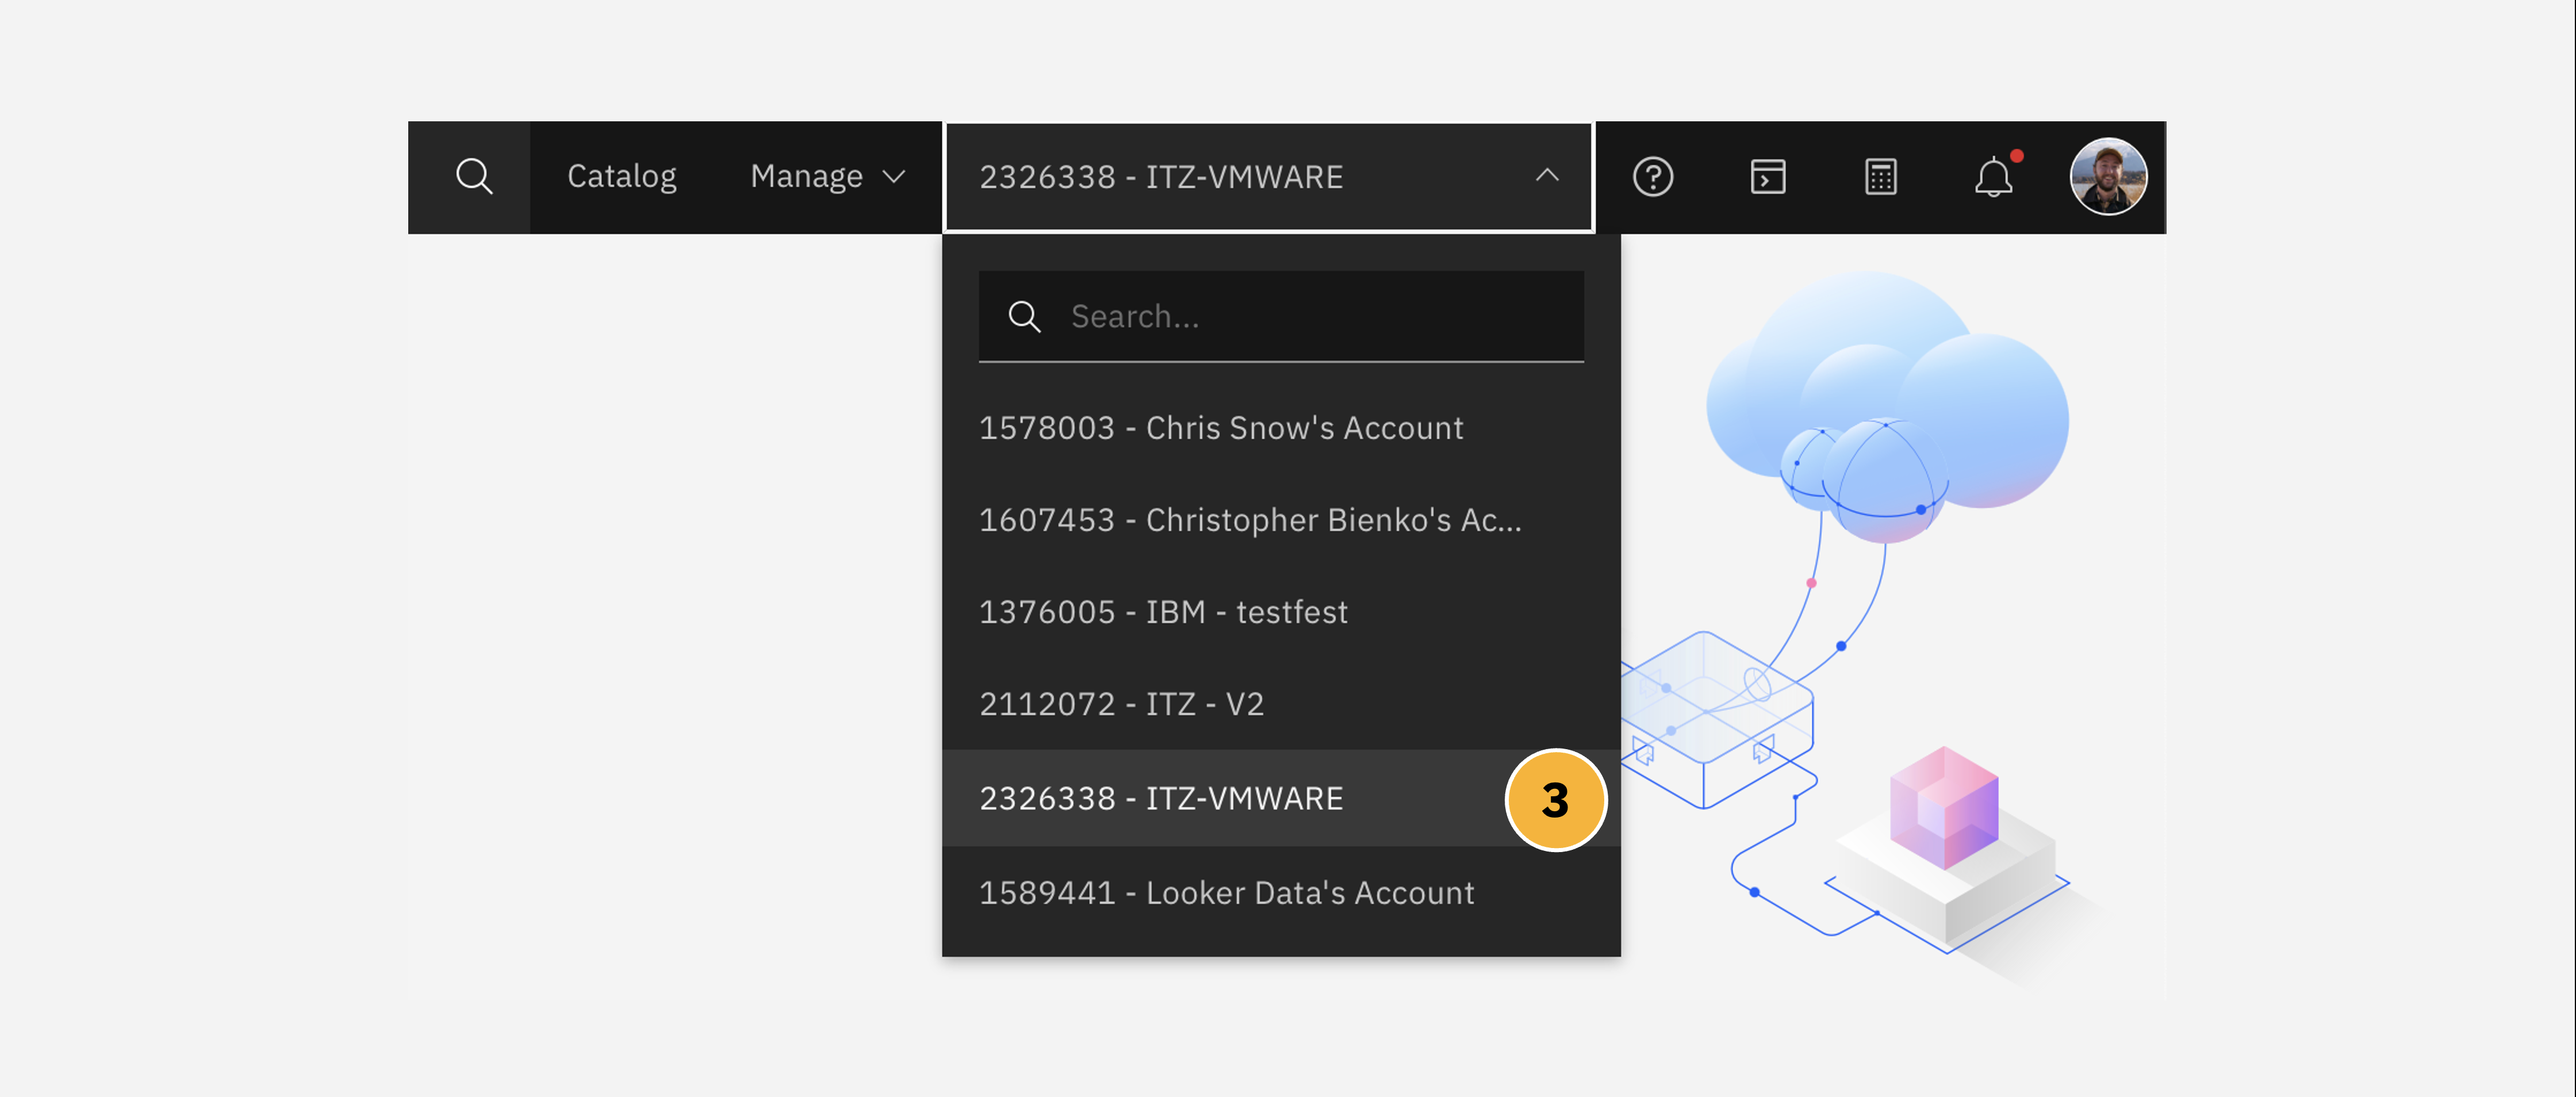
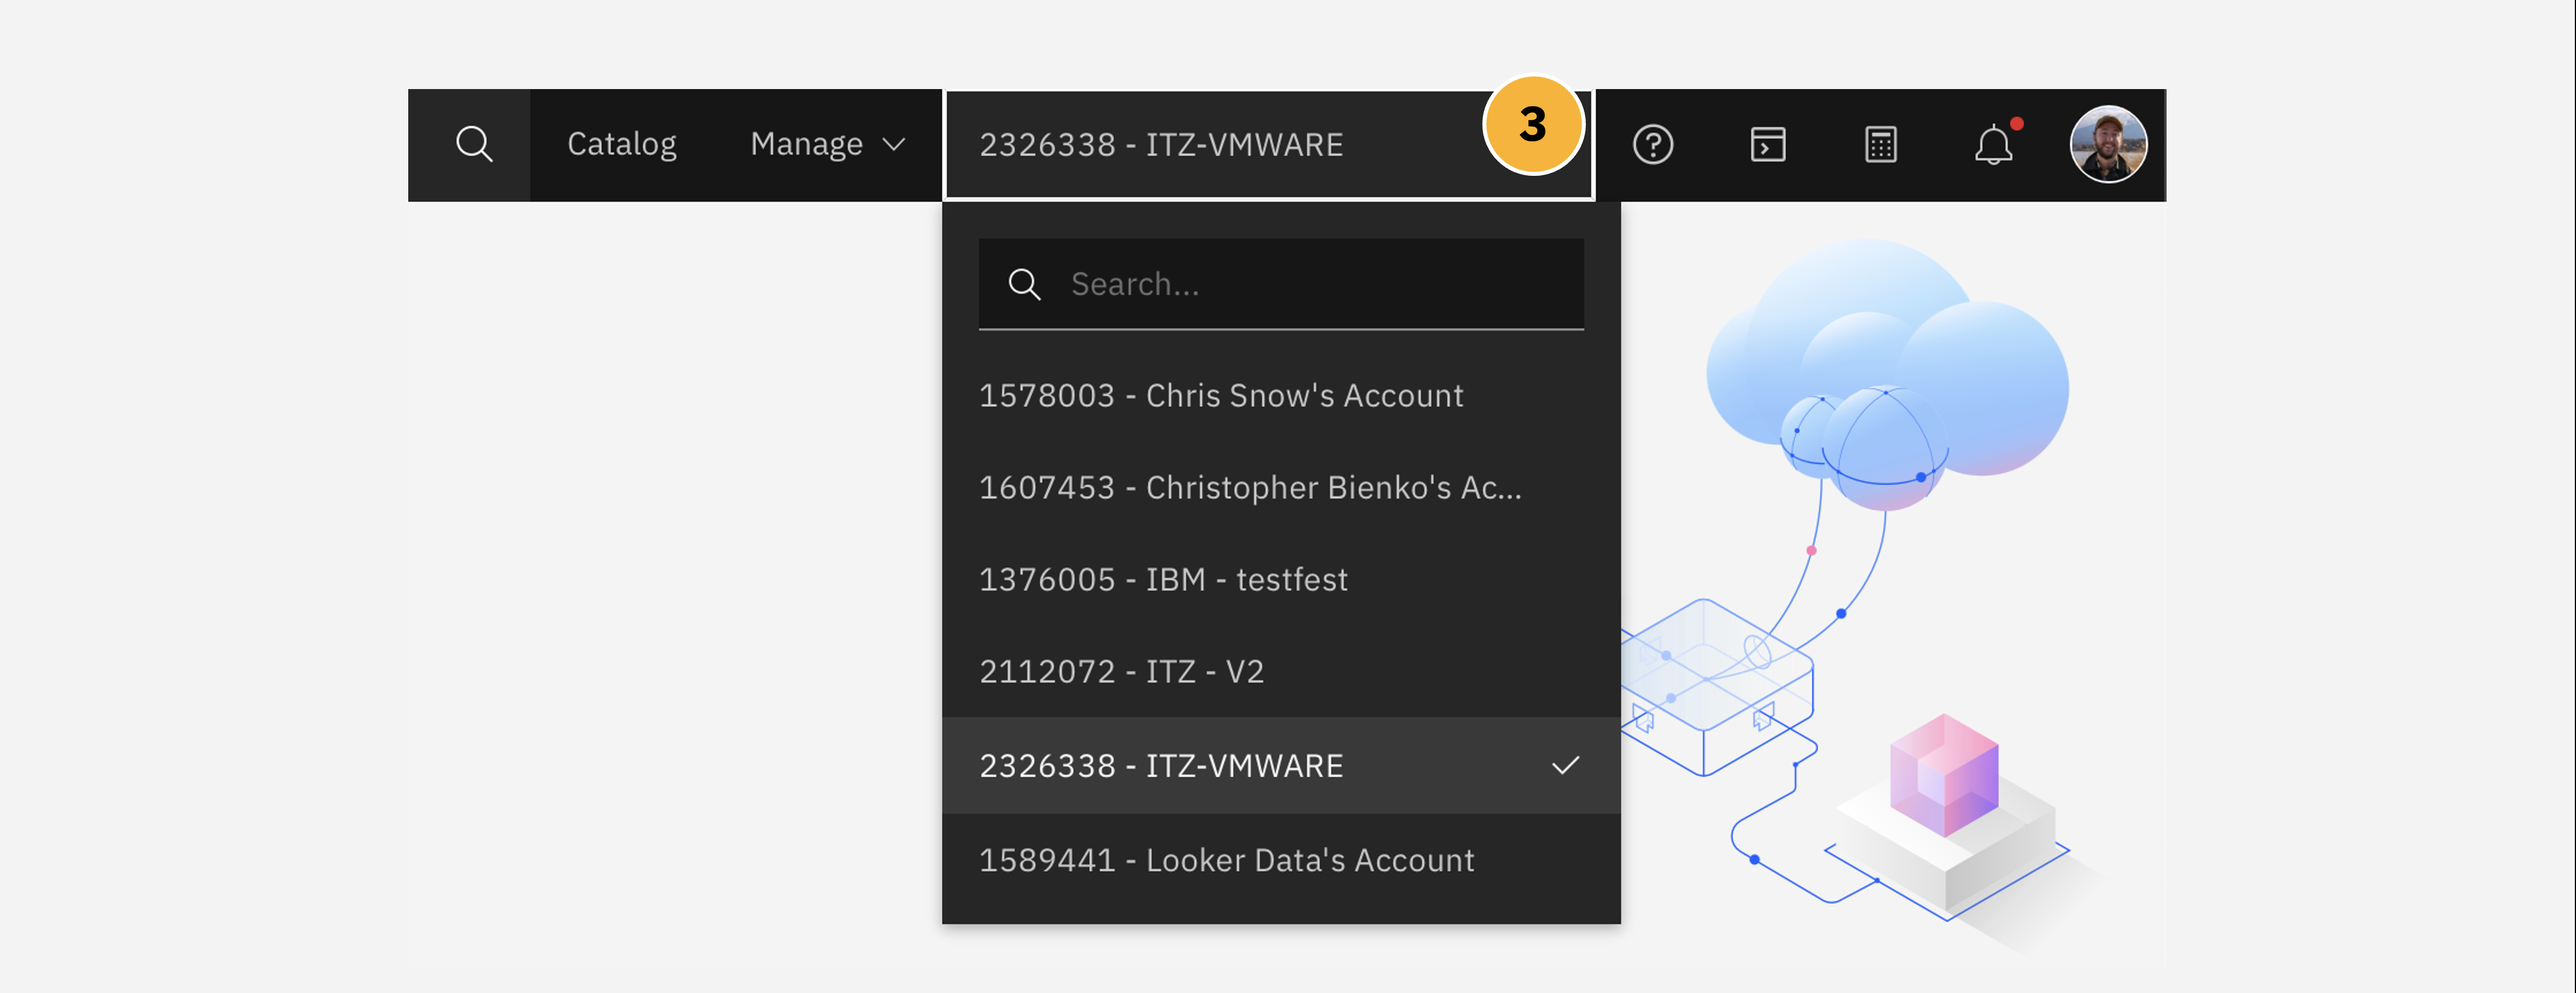
+3

diff --git a/docs/Shared/Provisioning.md b/docs/Shared/Provisioning.md
@@ -29,6 +29,8 @@ VMWare Solutions, including the **Shared** plan and other tiers, are accessible 
 
 3. Switch to your personal IBM Cloud account, or an account that you have permission to charge billable expenses to, by clicking the drop-down selector in the top-right corner of the IBM Cloud interface.
 
+![](_attachments/shared-provisioning-2.png)
+
 With your account properly set, you can proceed with configuration and setup of a VMware Shared plan. There are four platforms currently provided for VMware on IBM Cloud: ```VMware Shared```, ```VMware as a Service```, ```VMware vSphere```, and ```VMware vCenter Server```. For the purposes of this module, you will be configuring and provisioning a ```VMware Shared``` platform.
 
 4. As shown in the screenshot below, select the **VMware Shared** tile and click **Create** to continue to the configuration page.
